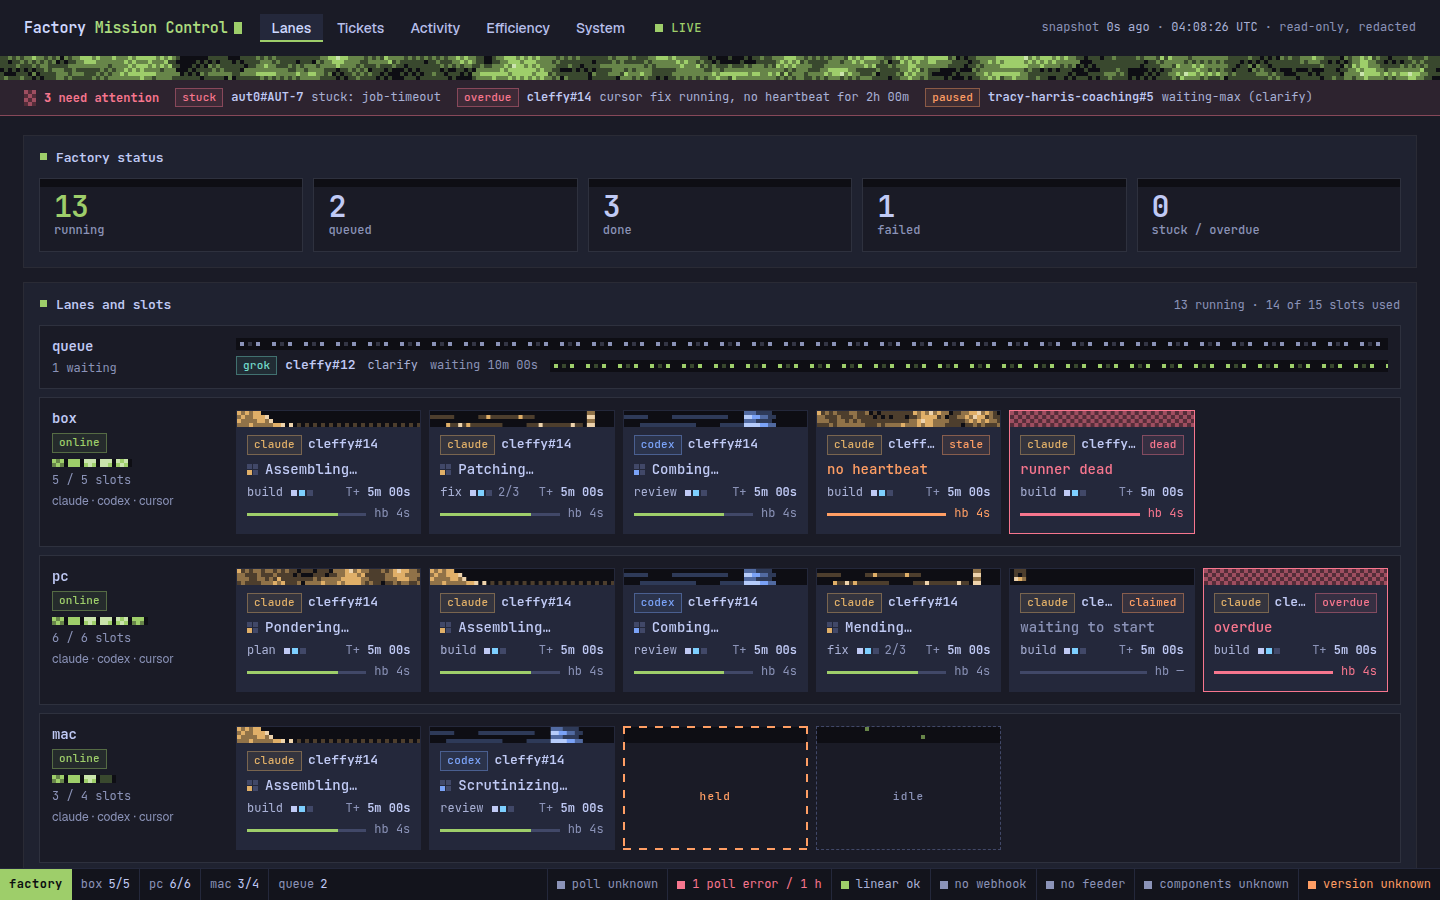
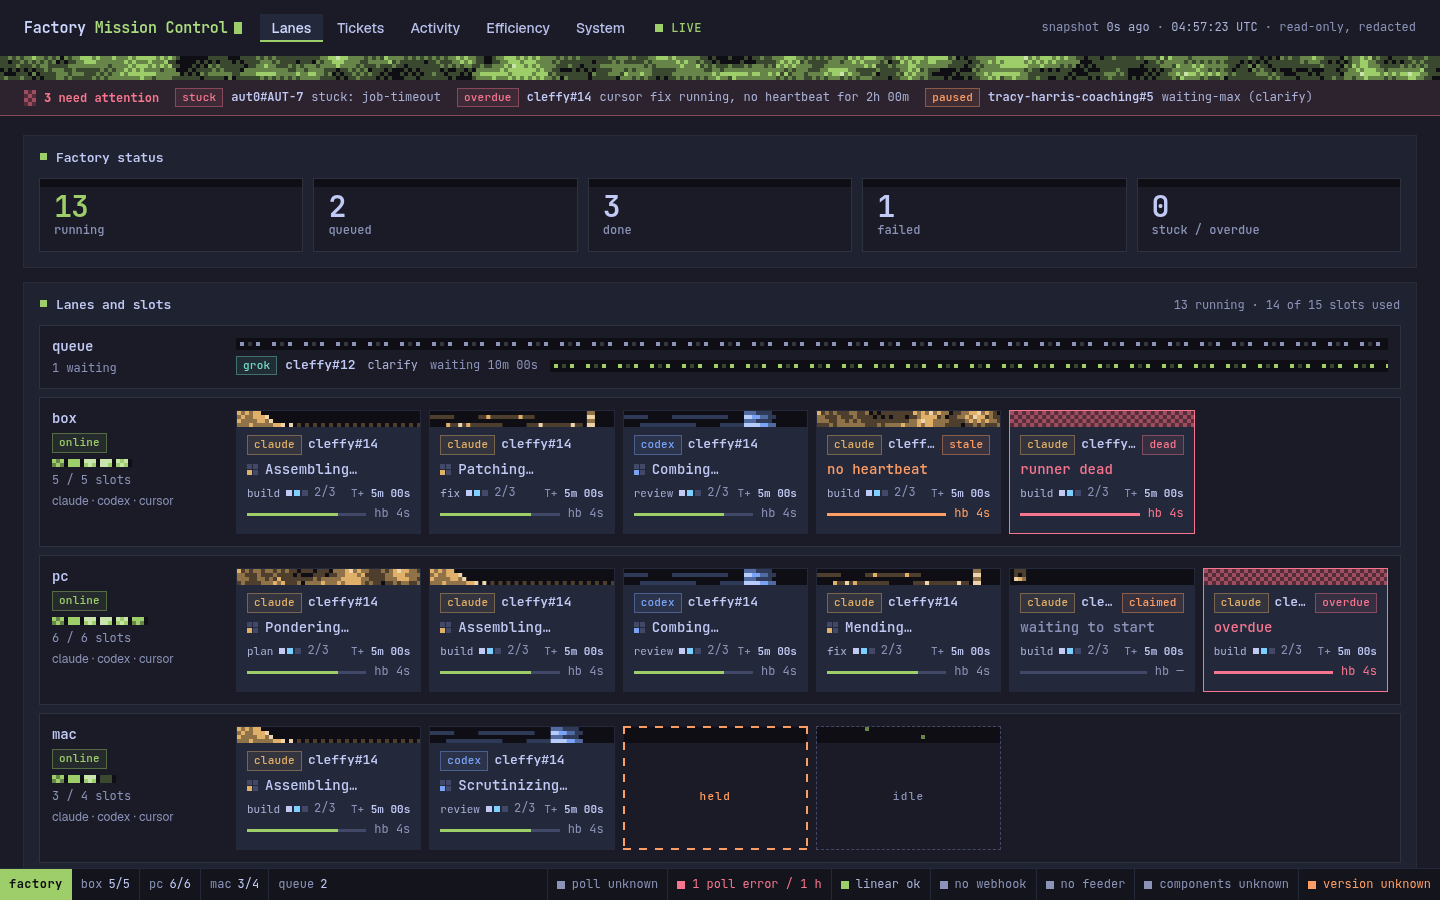
#140: fix(dashboard): keep every round's pips and n/m label visible on slot tiles
The round group no longer shrinks, wraps or clips. On narrow tiles the
action and T+ text drop to 11px and line 3's gaps to 6px instead, so all
15 slots still fit above the status line at 1440x900.

diff --git a/tests/test_dashboard_pages_golden.py b/tests/test_dashboard_pages_golden.py
@@ -25,25 +25,25 @@ from tests.test_dashboard import NOW, make_db, seeded
 FACADE = Path(__file__).resolve().parent.parent / "lib" / "dashboard_page.py"
 
 GOLDEN = {
[37 lines of base64/hex data omitted]
 }
 
 NAMES = (

diff --git a/lib/dashboard_pages/lanes.py b/lib/dashboard_pages/lanes.py
@@ -48,7 +48,7 @@ text-decoration:none;font:12px/1.3 var(--mono)}
 a.tile:hover,a.tile:focus-visible{border-color:var(--brand)}
 .tile.bad{border-color:var(--bad)}
 .tile.claude{--bt:var(--claude)}.tile.codex{--bt:var(--codex)}.tile.cursor{--bt:var(--cursor)}.tile.grok{--bt:var(--grok)}
-.tile-body{display:flex;flex-direction:column;gap:6px;padding:8px 10px 10px}
+.tile-body{display:flex;flex-direction:column;gap:6px;padding:8px 10px 10px;container-type:inline-size}
 .tile-l1{display:flex;align-items:baseline;gap:6px;min-width:0}
 .tile-l1 .ticket{flex:1 1 auto;min-width:0;overflow:hidden;text-overflow:ellipsis;white-space:nowrap;font:600 13px/1.25 var(--mono);color:var(--text)}
 .kind{padding:0 4px;color:var(--muted);font-size:10px}
@@ -60,11 +60,11 @@ a.tile:hover,a.tile:focus-visible{border-color:var(--brand)}
 .verb .h{color:#ffffff}.verb .n{color:var(--bt,var(--ok))}
 .tile-l3{display:flex;align-items:center;gap:8px;color:var(--muted)}
 .tile-l3 .action{min-width:0;overflow:hidden;text-overflow:ellipsis;white-space:nowrap;color:var(--text-2)}
-.round{flex:0 1000 auto;min-width:0;height:1.3em;overflow:hidden;display:flex;flex-wrap:wrap;align-content:flex-start;align-items:center;gap:0 6px}
-.pips{display:flex;align-items:center;height:1.3em;gap:2px}
+.round{flex:none;display:flex;align-items:center;gap:6px;white-space:nowrap}
+.pips{display:flex;gap:2px}
 .pips i{width:6px;height:6px;background:var(--line-hi)}.pips i.done{background:var(--text)}.pips i.cur{background:var(--accent)}
-.tile-l3 .gap{flex:1 1 0}
-.tile-l3 .t{flex:none;white-space:nowrap}.tile-l3 .t b{font-weight:600;color:var(--text)}
+.tile-l3 .t{flex:none;margin-left:auto;white-space:nowrap}.tile-l3 .t b{font-weight:600;color:var(--text)}
+@container (max-width:175px){.tile-l3{gap:6px}.tile-l3 .action,.tile-l3 .t{font-size:11px}}
 .tile-l4{display:flex;align-items:center;gap:8px}
 .hbar{flex:1 1 0;height:3px;background:var(--line-hi)}
 .hbar i{display:block;height:3px;background:var(--ok)}
@@ -306,7 +306,6 @@ SCRIPT = r"""
       for (var k = 1; k <= cap; k++) add(pips, el('i', k < cur ? 'done' : k === cur ? 'cur' : null));
       add(rnd, el('span', null, String(r.round)));
     }
-    add(l3, el('span', 'gap'));
     var t = add(l3, el('span', 't', 'T+ '));
     ticking(add(t, el('b')), r.elapsed_seconds);
     var l4 = add(bodyEl, el('div', 'tile-l4'));
@@ -668,8 +667,8 @@ def _slot(row: dict, seed: int = 1) -> str:
             f"{_span(None, rnd)}</span>"
         )
     line3 = (
-        _span("action", row["action"]) + pips + '<span class="gap"></span>'
-        f'<span class="t">T+ <b>{duration(row["elapsed_seconds"])}</b></span>'
+        _span("action", row["action"]) + pips
+        + f'<span class="t">T+ <b>{duration(row["elapsed_seconds"])}</b></span>'
     )
     hb = spec["hb"]
     level = _tone(hb if hb in ("warn", "bad") else "")

diff --git a/tests/test_dashboard_lanes.py b/tests/test_dashboard_lanes.py
@@ -452,6 +452,18 @@ def test_fifteen_slots_fit_above_the_fold_at_1440x900(tmp_path: Path, browser: B
     clipped = browser.eval("""[].filter.call(document.querySelectorAll('#lanes .tile-l3 .action, #lanes .tile-l3 .t'),
       function (e) { return e.scrollWidth > e.clientWidth; }).map(function (e) { return e.textContent; })""")
     assert not clipped, f"line 3 cuts the job's action or elapsed time: {clipped}"
+    rounds = browser.eval("""[].map.call(document.querySelectorAll('#lanes a.tile .tile-l3'), function (l3) {
+      var line = l3.getBoundingClientRect(), r = l3.querySelector('.round');
+      var pips = r.querySelector('.pips').getBoundingClientRect(), label = r.lastElementChild.getBoundingClientRect();
+      var x = label.left + label.width / 2, y = label.top + label.height / 2, hit = document.elementFromPoint(x, y);
+      return {job: l3.closest('a.tile').getAttribute('href'), label: r.lastElementChild.textContent,
+              shown: label.width > 0 && label.left >= line.left && label.right <= line.right + 0.5
+                && label.top >= line.top && label.bottom <= line.bottom + 0.5 && !!hit && r.contains(hit),
+              oneRow: Math.abs((pips.top + pips.bottom) - (label.top + label.bottom)) < 2};
+    })""")
+    assert len(rounds) == 13
+    broken = [r for r in rounds if not (r["shown"] and r["oneRow"] and r["label"] == "2/3")]
+    assert not broken, f"round pips and their n/m label must both show on one row: {broken}"
 
 
 def write_screenshots(out: Path) -> list[Path]:
